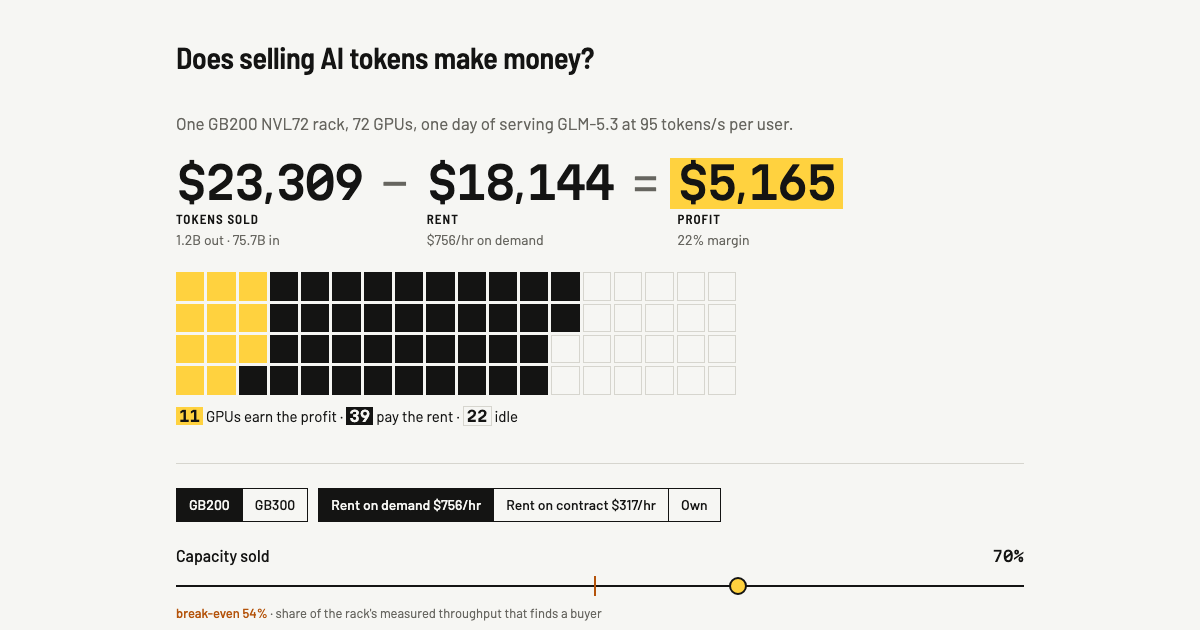
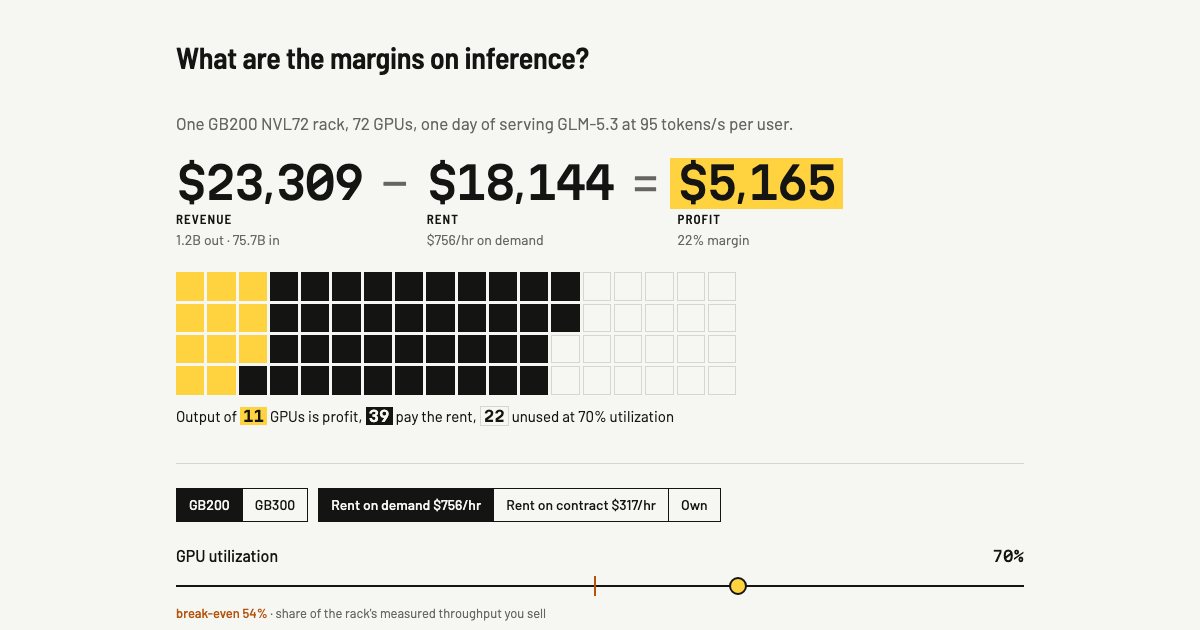
Retitle the page and use standard names for the inputs
The page now asks "What are the margins on inference?". "Capacity sold"
becomes GPU utilization and "speed per user" becomes output speed per
user, the terms InferenceX and Artificial Analysis use. The rack caption
reports unused capacity at the chosen utilization rather than idle GPUs,
since utilization is a share of time, not a count of machines.

diff --git a/scripts/scenario.ts b/scripts/scenario.ts
@@ -29,7 +29,7 @@ out.push(`# Scenario tables (generated)\n\nGenerated by \`npm run scenario\` fro
 
 // 0. One day, one rack: the four questions
 out.push('## One GB200 NVL72 rack, one day, GLM-5.3 (FP4) at 95 tok/s per user, median FP4 price, OpenRouter token mix\n');
-out.push('Capacity is InferenceX AgentX output per GPU, prefill GPUs included, adjusted to OpenRouter\'s prefill load. "Realistic" = 70% of capacity sold. "Peak" = 100% sold.\n');
+out.push('Capacity is InferenceX AgentX output per GPU, prefill GPUs included, adjusted to OpenRouter\'s prefill load. "Realistic" = 70% utilization. "Peak" = 100%.\n');
 const ledger: Row[] = [];
 for (const [label, over] of [['Realistic', {}], ['Peak', { utilization: 1 }]] as Array<[string, Partial<typeof base>]>) {
   for (const t of ['rent', 'own'] as Tenure[]) {
@@ -50,11 +50,11 @@ out.push(md(['Case', 'Cost / day', 'Tokens / day', 'Revenue / day', 'Profit / da
   const o = run('own', 'gb200');
   const br = breakevens(r.i, curveFor(A, 'gb200'));
   const bo = breakevens(o.i, curveFor(A, 'gb200'));
-  out.push(`\nBreak-even share of capacity sold: renting on demand ${fmtPct(br.soldShareToBreakEven)}, owning ${fmtPct(bo.soldShareToBreakEven)}. Revenue per GPU-hour ${'$' + r.daily.revenuePerGpuHr.toFixed(2)} against rent of $${r.i.rentUsdPerGpuHr} and an owning cost of $${(o.daily.costUsd / (o.daily.gpus * 24)).toFixed(2)}.`);
+  out.push(`\nBreak-even utilization: renting on demand ${fmtPct(br.soldShareToBreakEven)}, owning ${fmtPct(bo.soldShareToBreakEven)}. Revenue per GPU-hour ${'$' + r.daily.revenuePerGpuHr.toFixed(2)} against rent of $${r.i.rentUsdPerGpuHr} and an owning cost of $${(o.daily.costUsd / (o.daily.gpus * 24)).toFixed(2)}.`);
 }
 
 // 1. Presets × racks × tenure
-const head = ['Scenario', 'Rack', 'Tenure', 'Speed tok/s/user', 'Capacity tok/s/GPU', 'Sold tok/s/GPU', 'Output/day', 'Revenue/day', 'Cost/day', 'Profit/day', 'Margin', 'Payback', 'Underwater', 'NPV', '$/GPU-hr'];
+const head = ['Scenario', 'Rack', 'Tenure', 'Speed tok/s/user', 'Capacity tok/s/GPU', 'Sold tok/s/GPU at this utilization', 'Output/day', 'Revenue/day', 'Cost/day', 'Profit/day', 'Margin', 'Payback', 'Underwater', 'NPV', '$/GPU-hr'];
 const rows: Row[] = [];
 for (const p of ['pitch', 'realistic', 'bear'] as ScenarioPresetId[]) {
   for (const rack of ['gb200', 'gb300'] as RackId[]) {
@@ -71,7 +71,7 @@ for (const p of ['pitch', 'realistic', 'bear'] as ScenarioPresetId[]) {
   }
 }
 out.push('\n## Presets\n');
-out.push('Pitch: fastest measured throughput, 100% sold, Z.ai list price, no price decline. Realistic: 95 tok/s per user, 70% sold, median FP4 price, prices −50%/yr. Bear: 80% of measured throughput, 50% sold, DeepInfra\'s discounted price, −70%/yr. Rent is on demand. A renter hands the rack back the month it stops covering rent, so rent NPVs are the profit banked before that.\n');
+out.push('Pitch: fastest measured throughput, 100% utilization, Z.ai list price, no price decline. Realistic: 95 tok/s per user, 70% utilization, median FP4 price, prices −50%/yr. Bear: 80% of measured throughput, 50% utilization, DeepInfra\'s discounted price, −70%/yr. Rent is on demand. A renter hands the rack back the month it stops covering rent, so rent NPVs are the profit banked before that.\n');
 out.push(md(head, rows));
 
 // 2. Realistic details on GB200, owning
@@ -91,7 +91,7 @@ out.push(md(['Item', 'Per day', 'Per M output tokens'], [
   ['Revenue (output / input)', `${fmtUsd(d0.outputRevenueUsd)} / ${fmtUsd(d0.inputRevenueUsd)}`, ''],
 ]));
 out.push(`\nDemand: ${fmtTokens(ds.tokensPerDay)} tokens/day (output + input) = ${fmtPct(ds.shareOfOpenRouter)} of OpenRouter's daily volume, ${fmtPct(ds.shareOfDeepSeek2025)} of DeepSeek's Feb-2025 daily volume.`);
-out.push(`\nBreak-evens (owning): all token prices can fall to ${fmtPct(be.priceLevel)} of today's (output ${fmtUsdPerM(be.outPriceUsdPerM)}/M) before operating profit is zero; share sold for payback within life ${fmtPct(be.utilizationForPaybackAtLife)}; price decline at which NPV = 0: ${be.priceDeclineForZeroNpv === null ? 'none (NPV < 0 at flat prices)' : (be.priceDeclineForZeroNpv >= 0.98 ? '≥98' : fmtPct(be.priceDeclineForZeroNpv).replace('%', '')) + '%/yr'}.`);
+out.push(`\nBreak-evens (owning): all token prices can fall to ${fmtPct(be.priceLevel)} of today's (output ${fmtUsdPerM(be.outPriceUsdPerM)}/M) before operating profit is zero; utilization for payback within life ${fmtPct(be.utilizationForPaybackAtLife)}; price decline at which NPV = 0: ${be.priceDeclineForZeroNpv === null ? 'none (NPV < 0 at flat prices)' : (be.priceDeclineForZeroNpv >= 0.98 ? '≥98' : fmtPct(be.priceDeclineForZeroNpv).replace('%', '')) + '%/yr'}.`);
 
 // 3. Tornado, both tenures
 for (const t of ['rent', 'own'] as Tenure[]) {
@@ -102,7 +102,7 @@ for (const t of ['rent', 'own'] as Tenure[]) {
 }
 
 // 4. Frontier: payback by utilization × decline (owning)
-out.push('\n## Payback frontier, GB200, owning, realistic otherwise (rows share sold, columns price decline per year)\n');
+out.push('\n## Payback frontier, GB200, owning, realistic otherwise (rows utilization, columns price decline per year)\n');
 const declines = [0, 0.3, 0.5, 0.7, 0.8, 0.9];
 const fr: Row[] = [];
 for (const u of [0.1, 0.2, 0.3, 0.4, 0.6, 0.8, 1]) {
@@ -111,7 +111,7 @@ for (const u of [0.1, 0.2, 0.3, 0.4, 0.6, 0.8, 1]) {
     return fmtPayback(s.paybackMonth, s.months);
   })]);
 }
-out.push(md(['Sold \\ decline', ...declines.map((x) => `${Math.round(x * 100)}%`)], fr));
+out.push(md(['Utilization \\ decline', ...declines.map((x) => `${Math.round(x * 100)}%`)], fr));
 
 // 5. Claim check
 const c = A.anchors.nvidiaClaim;

diff --git a/apps/web/src/components/Answer.tsx b/apps/web/src/components/Answer.tsx
@@ -12,7 +12,7 @@ export function rackSplit(revenue: number, cost: number, utilization: number, gp
   const working = Math.round(gpus * utilization);
   const costShare = revenue > 0 ? Math.min(1, cost / revenue) : 1;
   const forCost = Math.round(working * costShare);
-  return { profit: working - forCost, cost: forCost, idle: gpus - working, covered: cost > 0 ? revenue / cost : 1 };
+  return { profit: working - forCost, cost: forCost, unused: gpus - working, covered: cost > 0 ? revenue / cost : 1 };
 }
 
 export function Answer({ m }: { m: Model }) {
@@ -20,7 +20,8 @@ export function Answer({ m }: { m: Model }) {
   const d = result.daily;
   const rack = A.racks[s.rack];
   const owning = s.tenure === 'own';
-  const split = rackSplit(d.revenueUsd, d.costUsd, i.utilization, d.gpus);
+  const utilization = i.utilization;
+  const split = rackSplit(d.revenueUsd, d.costUsd, utilization, d.gpus);
   const rackHr = m.rent * rack.gpus;
   const costNote = owning
     ? 'power, space, upkeep, wear'
@@ -28,7 +29,7 @@ export function Answer({ m }: { m: Model }) {
   const loss = d.operatingProfitUsd < 0;
 
   const cells = Array.from({ length: d.gpus }, (_, k) =>
-    k < split.profit ? 'p' : k < split.profit + split.cost ? 'c' : 'i');
+    k < split.profit ? 'p' : k < split.profit + split.cost ? 'c' : 'u');
 
   return (
     <section className="answer" aria-label="One day">
@@ -39,7 +40,7 @@ export function Answer({ m }: { m: Model }) {
       <div className="eq" data-testid="equation">
         <div className="term">
           <span className="big" data-testid="revenue"><Tight text={fmtUsdInt(d.revenueUsd)} /></span>
-          <span className="sub">tokens sold</span>
+          <span className="sub">revenue</span>
           <span className="note">{fmtTokens(d.outputTokens)} out · {fmtTokens(d.inputTokens)} in</span>
         </div>
         <span className="op" aria-hidden>−</span>
@@ -63,13 +64,13 @@ export function Answer({ m }: { m: Model }) {
         <figcaption data-testid="rack-caption">
           {split.profit > 0 ? (
             <>
-              <b className="k-p">{split.profit}</b> GPUs earn the profit · <b className="k-c">{split.cost}</b> pay {owning ? 'for the rack' : 'the rent'} ·{' '}
-              <b className="k-i">{split.idle}</b> idle
+              Output of <b className="k-p">{split.profit}</b> GPUs is profit, <b className="k-c">{split.cost}</b> pay {owning ? 'for the rack' : 'the rent'},{' '}
+              <b className="k-u">{split.unused}</b> unused at {fmtPct(utilization)} utilization
             </>
           ) : (
             <>
-              All <b className="k-c">{split.cost}</b> working GPUs cover {fmtPct(split.covered)} of {owning ? 'the cost' : 'the rent'} ·{' '}
-              <b className="k-i">{split.idle}</b> idle
+              Output of all <b className="k-c">{split.cost}</b> busy GPUs covers {fmtPct(split.covered)} of {owning ? 'the cost' : 'the rent'},{' '}
+              <b className="k-u">{split.unused}</b> unused at {fmtPct(utilization)} utilization
             </>
           )}
         </figcaption>

diff --git a/apps/web/src/components/Controls.tsx b/apps/web/src/components/Controls.tsx
@@ -92,10 +92,10 @@ export function Controls({ m }: { m: Model }) {
           ]} />
       </div>
 
-      <Slider testId="s-sold" label="Capacity sold" value={s.utilization} display={fmtPct(s.utilization)}
+      <Slider testId="s-sold" label="GPU utilization" value={s.utilization} display={fmtPct(s.utilization)}
         min={range('utilization')[0]} max={1} step={0.01} onChange={(v) => update({ utilization: v })}
         zero={zero('utilization', [0, 1])} zeroLabel={fmtPct(zero('utilization', [0, 1]))}
-        hint="share of the rack's measured throughput that finds a buyer" />
+        hint="share of the rack's measured throughput you sell" />
 
       <Slider testId="s-ratio" label="Input tokens per output token" value={s.islOsl} display={`${Math.round(s.islOsl)} : 1`}
         min={range('islOsl')[0]} max={range('islOsl')[1]} step={1} onChange={(v) => update({ islOsl: v })}
@@ -107,10 +107,10 @@ export function Controls({ m }: { m: Model }) {
         zero={zero('cacheHit', range('cacheHit'))} zeroLabel={fmtPct(zero('cacheHit', range('cacheHit')))}
         marks={[{ v: 0.9, label: 'OpenRouter GLM-5.3: 90%' }]} hint="OpenRouter GLM-5.3: 90%" />
 
-      <Slider testId="s-speed" label="Speed per user" value={s.interactivity} display={`${Math.round(s.interactivity)} tok/s`}
+      <Slider testId="s-speed" label="Output speed per user" value={s.interactivity} display={`${Math.round(s.interactivity)} tok/s`}
         min={iLo} max={iHi} step={0.5} onChange={(v) => update({ interactivity: v })}
         zero={zero('interactivity', [iLo, iHi])} zeroLabel={`${Math.round(zero('interactivity', [iLo, iHi]) ?? 0)} tok/s`}
-        hint="slowest 10% of requests; the measured range" />
+        hint="tokens/s each user sees on the slowest 10% of requests (p90), within the measured range" />
 
       {s.tenure === 'rent' ? (
         <Slider testId="s-rent" label="Rack rent" value={m.rent} display={`${perRack(m.rent)} · $${m.rent.toFixed(2)}/GPU`}

diff --git a/apps/web/e2e/site.spec.ts b/apps/web/e2e/site.spec.ts
@@ -17,7 +17,7 @@ test('1. defaults answer the four questions: rent, tokens, revenue, profit', asy
   await expect(page.getByTestId('profit')).toHaveText('$5,165');
   await expect(page.getByTestId('margin')).toHaveText('22% margin');
   await expect(page.getByTestId('equation')).toContainText('1.2B out · 75.7B in');
-  await expect(page.getByTestId('rack-caption')).toHaveText('11 GPUs earn the profit · 39 pay the rent · 22 idle');
+  await expect(page.getByTestId('rack-caption')).toHaveText('Output of 11 GPUs is profit, 39 pay the rent, 22 unused at 70% utilization');
   await expect(page.getByTestId('disclaimer')).toContainText('Not financial, investment, tax, or purchasing advice');
 });
 
@@ -30,7 +30,7 @@ test('2. the contract toggle cuts rent to $317/hr and lands in the URL', async (
   await expect(page).toHaveURL(/rb=contract/);
 });
 
-test('3. selling less capacity lowers profit; the break-even tick sits at 54%', async ({ page }) => {
+test('3. lower utilization lowers profit; the break-even tick sits at 54%', async ({ page }) => {
   await page.goto('/');
   await expect(page.getByTestId('s-sold')).toContainText('break-even 54%');
   const before = await money(page, 'profit');
@@ -39,7 +39,7 @@ test('3. selling less capacity lowers profit; the break-even tick sits at 54%', 
   const after = await money(page, 'profit');
   expect(after).toBeLessThan(before);
   expect(after).toBeLessThan(0);
-  await expect(page.getByTestId('rack-caption')).toContainText('working GPUs cover');
+  await expect(page.getByTestId('rack-caption')).toContainText('busy GPUs covers');
   await expect(page).toHaveURL(/u=0\.5/);
 });
 

diff --git a/apps/web/index.html b/apps/web/index.html
@@ -3,15 +3,15 @@
   <head>
     <meta charset="UTF-8" />
     <meta name="viewport" content="width=device-width, initial-scale=1.0" />
-    <title>Does selling AI tokens make money?</title>
+    <title>What are the margins on inference?</title>
     <meta name="description" content="One NVIDIA NVL72 rack, one day, serving GLM-5.3: what it costs, how many tokens it serves, what they sell for, and the profit. Measured throughput, real traffic, real prices. Personal project; not financial advice." />
     <meta property="og:type" content="website" />
-    <meta property="og:title" content="Does selling AI tokens make money?" />
+    <meta property="og:title" content="What are the margins on inference?" />
     <meta property="og:description" content="One GB200 rack, one day, GLM-5.3: $23,309 of tokens − $18,144 on-demand rent = $5,165. On a 3-year contract: $15,705." />
     <meta property="og:url" content="https://ganeshkumarashok.github.io/token-margin/" />
     <meta property="og:image" content="https://ganeshkumarashok.github.io/token-margin/og.png" />
     <meta name="twitter:card" content="summary_large_image" />
-    <meta name="twitter:title" content="Does selling AI tokens make money?" />
+    <meta name="twitter:title" content="What are the margins on inference?" />
     <meta name="twitter:description" content="One GB200 rack, one day, GLM-5.3: $23,309 of tokens − $18,144 on-demand rent = $5,165. On a 3-year contract: $15,705." />
     <meta name="twitter:image" content="https://ganeshkumarashok.github.io/token-margin/og.png" />
     <link rel="preconnect" href="https://fonts.googleapis.com" />

diff --git a/apps/web/src/components/Details.tsx b/apps/web/src/components/Details.tsx
@@ -37,7 +37,7 @@ export function Details({ m }: { m: Model }) {
         <dd>
           {fmtInt(d.benchPerGpu)} output tokens/s per GPU measured at {Math.round(i.interactivity)} tok/s per user, prefill GPUs
           included<Fn id="inferencex-agentx" />; {fmtInt(d.capacityPerGpu)} on this traffic, which prefills {uncachedPerOut.toFixed(1)} uncached
-          input tokens per output token against {i.refUncachedPerOut} in the benchmark. {fmtPct(i.utilization)} of that is sold.
+          input tokens per output token against {i.refUncachedPerOut} in the benchmark. At {fmtPct(i.utilization)} utilization it sells {fmtInt(d.tpsPerGpu * i.utilization)} per GPU.
         </dd>
         <dt>Tokens</dt>
         <dd>
@@ -85,7 +85,7 @@ export function Details({ m }: { m: Model }) {
           so the figure leans conservative.</li>
         <li>Token mix and prices come from OpenRouter: GLM-5.3's last 30 days of traffic, and the median of its 16 FP4 endpoints.</li>
         <li>Rent is the cheapest published whole-rack list price, or a 3-year multi-rack contract estimated from filed deals and 2026 increases.</li>
-        <li>Everything on this page is one rack and one day. A renter pays for idle GPUs; an owner pays for the rack whether it sells or not.</li>
+        <li>Everything on this page is one rack and one day. A renter pays for unused capacity, and an owner pays for the rack whether it sells or not.</li>
       </ul>
 
       <h2>Sources</h2>

diff --git a/packages/engine/src/sensitivity.ts b/packages/engine/src/sensitivity.ts
@@ -49,11 +49,11 @@ export function defaultSensitivitySpecs(points: readonly CurvePoint[], tenure: T
       apply: (i, s) => ({ ...i, rentUsdPerGpuHr: s === 'low' ? 4.4 : 16 }) },
   ];
   const shared: SensitivitySpec[] = [
-    { key: 'interactivity', label: 'Serving speed', lowLabel: `${iMin} tok/s`, highLabel: `${iMax} tok/s`,
+    { key: 'interactivity', label: 'Output speed', lowLabel: `${iMin} tok/s`, highLabel: `${iMax} tok/s`,
       apply: (i, s) => ({ ...i, interactivity: s === 'low' ? iMin : iMax }) },
     { key: 'achieved', label: 'Achieved throughput', lowLabel: '25%', highLabel: '100%',
       apply: (i, s) => ({ ...i, achieved: s === 'low' ? 0.25 : 1 }) },
-    { key: 'utilization', label: 'Share sold', lowLabel: '30%', highLabel: '100%',
+    { key: 'utilization', label: 'Utilization', lowLabel: '30%', highLabel: '100%',
       apply: (i, s) => ({ ...i, utilization: s === 'low' ? 0.3 : 1 }) },
     { key: 'prices', label: 'Token prices', lowLabel: '×0.5', highLabel: '×1.5',
       apply: (i, s) => scalePrices(i, s === 'low' ? 0.5 : 1.5) },

diff --git a/apps/web/src/styles.css b/apps/web/src/styles.css
@@ -67,7 +67,7 @@ a { color: inherit; text-underline-offset: 2px; }
 .rack b { font: 600 15px var(--mono); padding: 0 3px; }
 .k-p { background: var(--hl); color: var(--hl-ink); }
 .k-c { background: var(--ink); color: var(--bg); }
-.k-i { border: 1px solid var(--rule); }
+.k-u { border: 1px solid var(--rule); }
 
 /* Controls */
 .controls { display: grid; gap: 22px; border-top: 1px solid var(--rule); padding-top: 24px; }

diff --git a/packages/engine/src/types.ts b/packages/engine/src/types.ts
@@ -25,7 +25,7 @@ export interface Inputs {
   interactivity: number;
   /** 0..1 share of benchmark throughput achieved on real traffic */
   achieved: number;
-  /** 0..1 share of capacity sold */
+  /** 0..1 utilization: share of measured capacity sold */
   utilization: number;
   /** uncached input tokens prefilled per second per prefill GPU */
   prefillRate: number;

diff --git a/apps/web/src/App.tsx b/apps/web/src/App.tsx
@@ -8,7 +8,7 @@ export function App() {
   return (
     <main className="page">
       <header className="masthead">
-        <h1>Does selling AI tokens make money?</h1>
+        <h1>What are the margins on inference?</h1>
       </header>
       <Answer m={m} />
       <Controls m={m} />

diff --git a/docs/findings-tables.md b/docs/findings-tables.md
@@ -4,7 +4,7 @@ Generated by `npm run scenario` from `data/assumptions.json` (version 2026-10-25
 
 ## One GB200 NVL72 rack, one day, GLM-5.3 (FP4) at 95 tok/s per user, median FP4 price, OpenRouter token mix
 
-Capacity is InferenceX AgentX output per GPU, prefill GPUs included, adjusted to OpenRouter's prefill load. "Realistic" = 70% of capacity sold. "Peak" = 100% sold.
+Capacity is InferenceX AgentX output per GPU, prefill GPUs included, adjusted to OpenRouter's prefill load. "Realistic" = 70% utilization. "Peak" = 100%.
 
 | Case | Cost / day | Tokens / day | Revenue / day | Profit / day | Over time (prices −50%/yr) |
 |---|---|---|---|---|---|
@@ -13,13 +13,13 @@ Capacity is InferenceX AgentX output per GPU, prefill GPUs included, adjusted to
 | Peak, rent | $18.1K (rent $10.5/GPU-hr) | 1.7B out + 108.2B in | $33.3K | $15.2K (46%) | stops covering rent in month 12 |
 | Peak, own | $4.2K (power $502, colo $789, opex $534, depreciation $2.4K) | 1.7B out + 108.2B in | $33.3K | $29.1K (87%) | payback 5 mo, NPV $9.7M |
 
-Break-even share of capacity sold: renting on demand 54%, owning 12%. Revenue per GPU-hour $13.49 against rent of $10.5 and an owning cost of $2.39.
+Break-even utilization: renting on demand 54%, owning 12%. Revenue per GPU-hour $13.49 against rent of $10.5 and an owning cost of $2.39.
 
 ## Presets
 
-Pitch: fastest measured throughput, 100% sold, Z.ai list price, no price decline. Realistic: 95 tok/s per user, 70% sold, median FP4 price, prices −50%/yr. Bear: 80% of measured throughput, 50% sold, DeepInfra's discounted price, −70%/yr. Rent is on demand. A renter hands the rack back the month it stops covering rent, so rent NPVs are the profit banked before that.
+Pitch: fastest measured throughput, 100% utilization, Z.ai list price, no price decline. Realistic: 95 tok/s per user, 70% utilization, median FP4 price, prices −50%/yr. Bear: 80% of measured throughput, 50% utilization, DeepInfra's discounted price, −70%/yr. Rent is on demand. A renter hands the rack back the month it stops covering rent, so rent NPVs are the profit banked before that.
 
-| Scenario | Rack | Tenure | Speed tok/s/user | Capacity tok/s/GPU | Sold tok/s/GPU | Output/day | Revenue/day | Cost/day | Profit/day | Margin | Payback | Underwater | NPV | $/GPU-hr |
+| Scenario | Rack | Tenure | Speed tok/s/user | Capacity tok/s/GPU | Sold tok/s/GPU at this utilization | Output/day | Revenue/day | Cost/day | Profit/day | Margin | Payback | Underwater | NPV | $/GPU-hr |
 |---|---|---|---|---|---|---|---|---|---|---|---|---|---|---|
 | Pitch | GB200 NVL72 | rent | 94.7 | 277 | 277 | 1.7B | $48.2K | $18.1K | $30.0K | 62% | n/a | — | $38.3M | $27.89 |
 | Pitch | GB200 NVL72 | own | 94.7 | 277 | 277 | 1.7B | $48.2K | $4.2K | $44.0K | 91% | 3 mo | — | $55.5M | $27.89 |
@@ -47,7 +47,7 @@ Pitch: fastest measured throughput, 100% sold, Z.ai list price, no price decline
 
 Demand: 76.9B tokens/day (output + input) = 0.9% of OpenRouter's daily volume, 10% of DeepSeek's Feb-2025 daily volume.
 
-Break-evens (owning): all token prices can fall to 18% of today's (output $0.780/M) before operating profit is zero; share sold for payback within life 36%; price decline at which NPV = 0: 77%/yr.
+Break-evens (owning): all token prices can fall to 18% of today's (output $0.780/M) before operating profit is zero; utilization for payback within life 36%; price decline at which NPV = 0: 77%/yr.
 
 ## Sensitivity at realistic defaults, GB200, rent (ranked by NPV swing)
 
@@ -56,8 +56,8 @@ Break-evens (owning): all token prices can fall to 18% of today's (output $0.780
 | Price decline | 0%/yr | $5.2K | $6.6M | 90%/yr | $5.2K | $189.1K |
 | Rent | $4.40 | $15.7K | $3.9M | $16 | −$4.3K | $0.00 |
 | Token prices | ×0.5 | −$6.5K | $0.00 | ×1.5 | $16.8K | $2.8M |
-| Share sold | 30% | −$8.2K | $0.00 | 100% | $15.2K | $2.4M |
-| Serving speed | 94.7 tok/s | $5.3K | $416.4K | 263.9 tok/s | −$14.0K | $0.00 |
+| Utilization | 30% | −$8.2K | $0.00 | 100% | $15.2K | $2.4M |
+| Output speed | 94.7 tok/s | $5.3K | $416.4K | 263.9 tok/s | −$14.0K | $0.00 |
 | Achieved throughput | 25% | −$12.3K | $0.00 | 100% | $5.2K | $404.4K |
 | Prefill rate | ×0.75 | $4.3K | $301.3K | ×2 | $6.5K | $600.0K |
 | Useful life | 2 yr | $5.2K | $404.4K | 6 yr | $5.2K | $404.4K |
@@ -68,17 +68,17 @@ Break-evens (owning): all token prices can fall to 18% of today's (output $0.780
 |---|---|---|---|---|---|---|
 | Price decline | 0%/yr | $19.2K | $23.9M | 90%/yr | $19.2K | −$1.9M |
 | Token prices | ×0.5 | $7.5K | −$341.7K | ×1.5 | $30.8K | $10.6M |
-| Share sold | 30% | $6.0K | −$955.8K | 100% | $29.1K | $9.7M |
-| Serving speed | 94.7 tok/s | $19.3K | $5.2M | 263.9 tok/s | −$1.2 | −$3.9M |
+| Utilization | 30% | $6.0K | −$955.8K | 100% | $29.1K | $9.7M |
+| Output speed | 94.7 tok/s | $19.3K | $5.2M | 263.9 tok/s | −$1.2 | −$3.9M |
 | Achieved throughput | 25% | $1.7K | −$3.1M | 100% | $19.2K | $5.1M |
 | Rack price | −30% | $20.1K | $6.4M | +30% | $18.3K | $3.8M |
 | Prefill rate | ×0.75 | $18.3K | $4.7M | ×2 | $20.6K | $5.8M |
 | Electricity | 5¢ | $19.4K | $5.5M | 25¢ | $18.9K | $4.8M |
 | Useful life | 2 yr | $16.8K | $4.2M | 6 yr | $20.0K | $4.6M |
 
-## Payback frontier, GB200, owning, realistic otherwise (rows share sold, columns price decline per year)
+## Payback frontier, GB200, owning, realistic otherwise (rows utilization, columns price decline per year)
 
-| Sold \ decline | 0% | 30% | 50% | 70% | 80% | 90% |
+| Utilization \ decline | 0% | 30% | 50% | 70% | 80% | 90% |
 |---|---|---|---|---|---|---|
 | 10% | never (>4 yr) | never (>4 yr) | never (>4 yr) | never (>4 yr) | never (>4 yr) | never (>4 yr) |
 | 20% | 2.2 yr | never (>4 yr) | never (>4 yr) | never (>4 yr) | never (>4 yr) | never (>4 yr) |

diff --git a/README.md b/README.md
@@ -1,10 +1,10 @@
 # Token margin
 
-Does selling AI tokens make money? One NVIDIA NVL72 rack (GB200 or GB300), one
-day of serving an open-weights model (GLM-5.3, FP4): what it costs to rent or
-own, how many tokens it serves, what they sell for, and what is left. Move a
-slider and the day recomputes; the URL carries every change, so each scenario
-is a link.
+What are the margins on inference? This models one NVIDIA NVL72 rack (GB200 or
+GB300) serving an open-weights model (GLM-5.3, FP4) for a day: what it costs to
+rent or own, how many tokens it serves, what they sell for, and what is left.
+Moving a slider recomputes the day, and the URL records every change, so each
+scenario is a shareable link.
 
 Throughput is measured (InferenceX agentic benchmark), the token mix and prices
 are OpenRouter's, and rents are published list prices or filed contracts.
